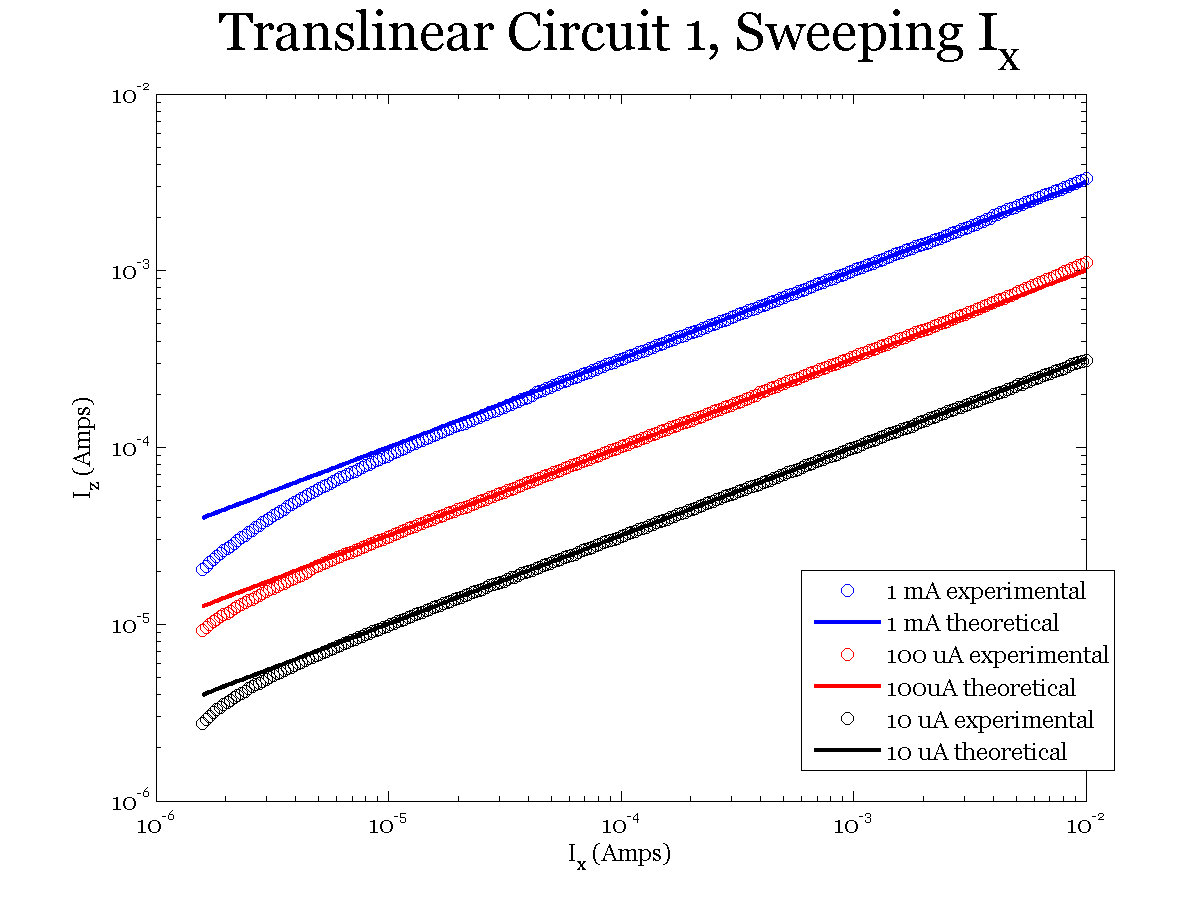
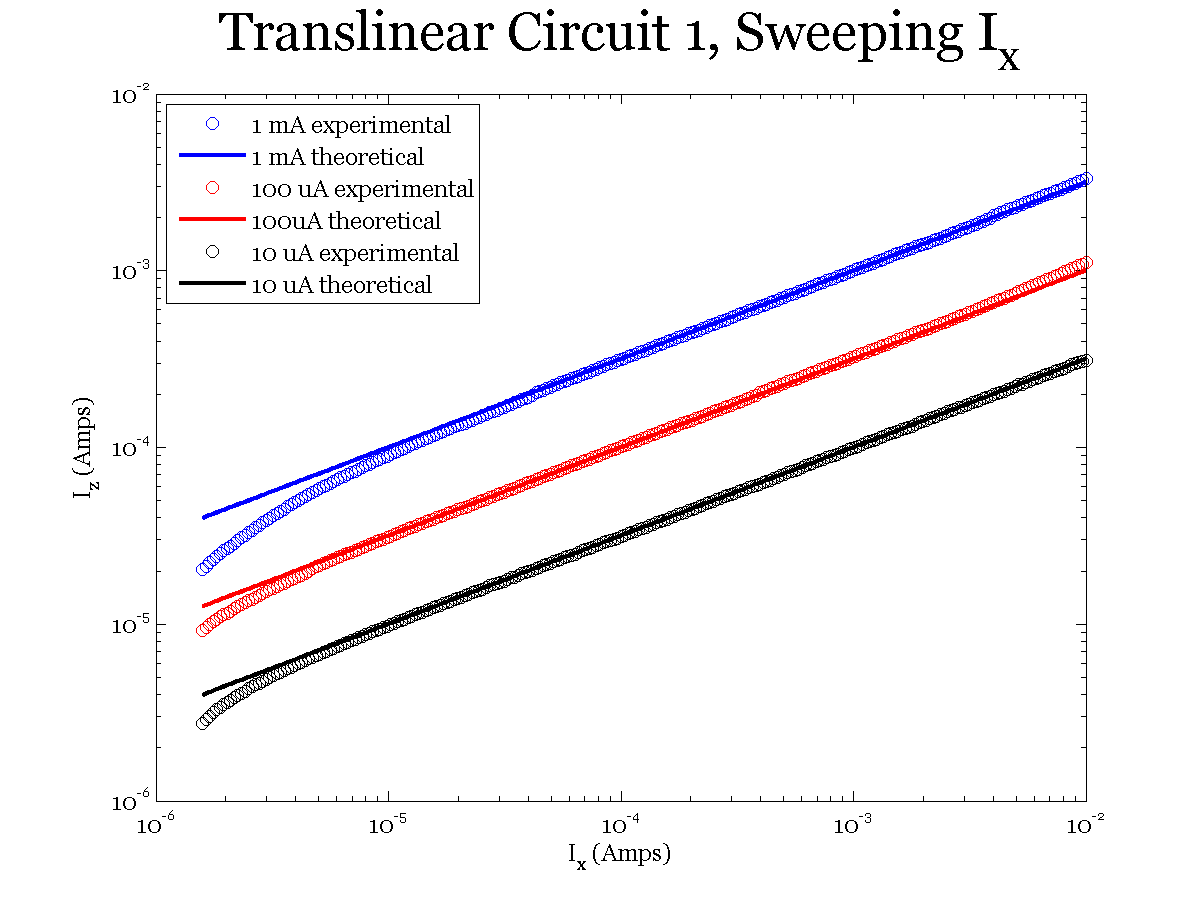
finished experiment 3

diff --git a/plot_exp3_sweepy.m b/plot_exp3_sweepy.m
@@ -1,0 +1,28 @@
+clf
+clear all
+
+load exp3_sweepy_100KOHM
+loglog(-I_y_src, I_z_meas,'bo')
+hold on
+I_z_exp = (2.2e-5) .^ 2 ./ -I_y_src;  
+loglog(-I_y_src, I_z_exp,'b-','linewidth',2)
+
+clear all
+load exp3_sweepy_200KOHM
+loglog(-I_y_src, I_z_meas,'go')
+hold on
+I_z_exp = (1e-5) .^ 2 ./ -I_y_src;  %call it 25
+loglog(-I_y_src, I_z_exp,'g-','linewidth',2)
+
+clear all
+load exp3_sweepy_2MOHM
+loglog(-I_y_src, I_z_meas,'ko')
+hold on
+I_z_exp = (1e-6) .^ 2 ./ -I_y_src;  %call it 25
+loglog(-I_y_src, I_z_exp,'k-','linewidth',2)
+
+legend('22 uA experimental','22 uA theoretical','10 uA experimental','10 uA theoretical','100 uA experimental','100 uA theoretical', 'location','southwest')
+xlabel 'I_y (Amps)'
+ylabel 'I_z (Amps)'
+title('Translinear Circuit 2, Sweeping I_y', 'fontsize',20)
+saveas(gcf, 'exp3_sweepy.png')

diff --git a/plot_exp3_sweepx.m b/plot_exp3_sweepx.m
@@ -1,0 +1,28 @@
+clf
+clear all
+load exp3_sweepx_400kOHMS
+loglog(I_x_src, I_z_meas,'bo')
+hold on
+I_z_exp = I_x_src .^ 2 ./ .5e-6;
+loglog(I_x_src, I_z_exp,'b-','linewidth',2)
+
+clear all
+load exp3_sweepx_40kOHMS
+loglog(I_x_src, I_z_meas,'ro')
+hold on
+I_z_exp = I_x_src .^ 2 ./ .5e-5;
+loglog(I_x_src, I_z_exp,'r-','linewidth',2)
+
+clear all
+load exp3_sweepx_4kOHMS
+loglog(I_x_src, I_z_meas,'go')
+hold on
+I_z_exp = I_x_src .^ 2 ./ .5e-4;
+loglog(I_x_src, I_z_exp, 'g-','linewidth',2)
+
+xlim([10^-7 max(I_x_src)])
+legend('500 nA experimental','500 nA theoretical','5 uA experimental','5 uA theoretical','50 uA experimental','50 uA theoretical', 'location','northwest')
+xlabel 'I_x (Amps)'
+ylabel 'I_z (Amps)'
+title('Translinear Circuit 2, Sweeping I_x', 'fontsize',20)
+saveas(gcf, 'exp3_sweepx.png')

diff --git a/plot_exp2_sweepx.m b/plot_exp2_sweepx.m
@@ -20,7 +20,7 @@ loglog(I_x_src, I_z_meas, 'ko')
 I_z_exp = sqrt(1e-5 * I_x_src);
 loglog(I_x_src, I_z_exp, 'k-','linewidth',2)
 
-legend('1 mA experimental','1 mA theoretical','100 uA experimental','100uA theoretical','10 uA experimental','10 uA theoretical', 'location','best')
+legend('1 mA experimental','1 mA theoretical','100 uA experimental','100uA theoretical','10 uA experimental','10 uA theoretical', 'location','northwest')
 xlabel 'I_x (Amps)'
 ylabel 'I_z (Amps)'
 title('Translinear Circuit 1, Sweeping I_x', 'fontsize',20)
